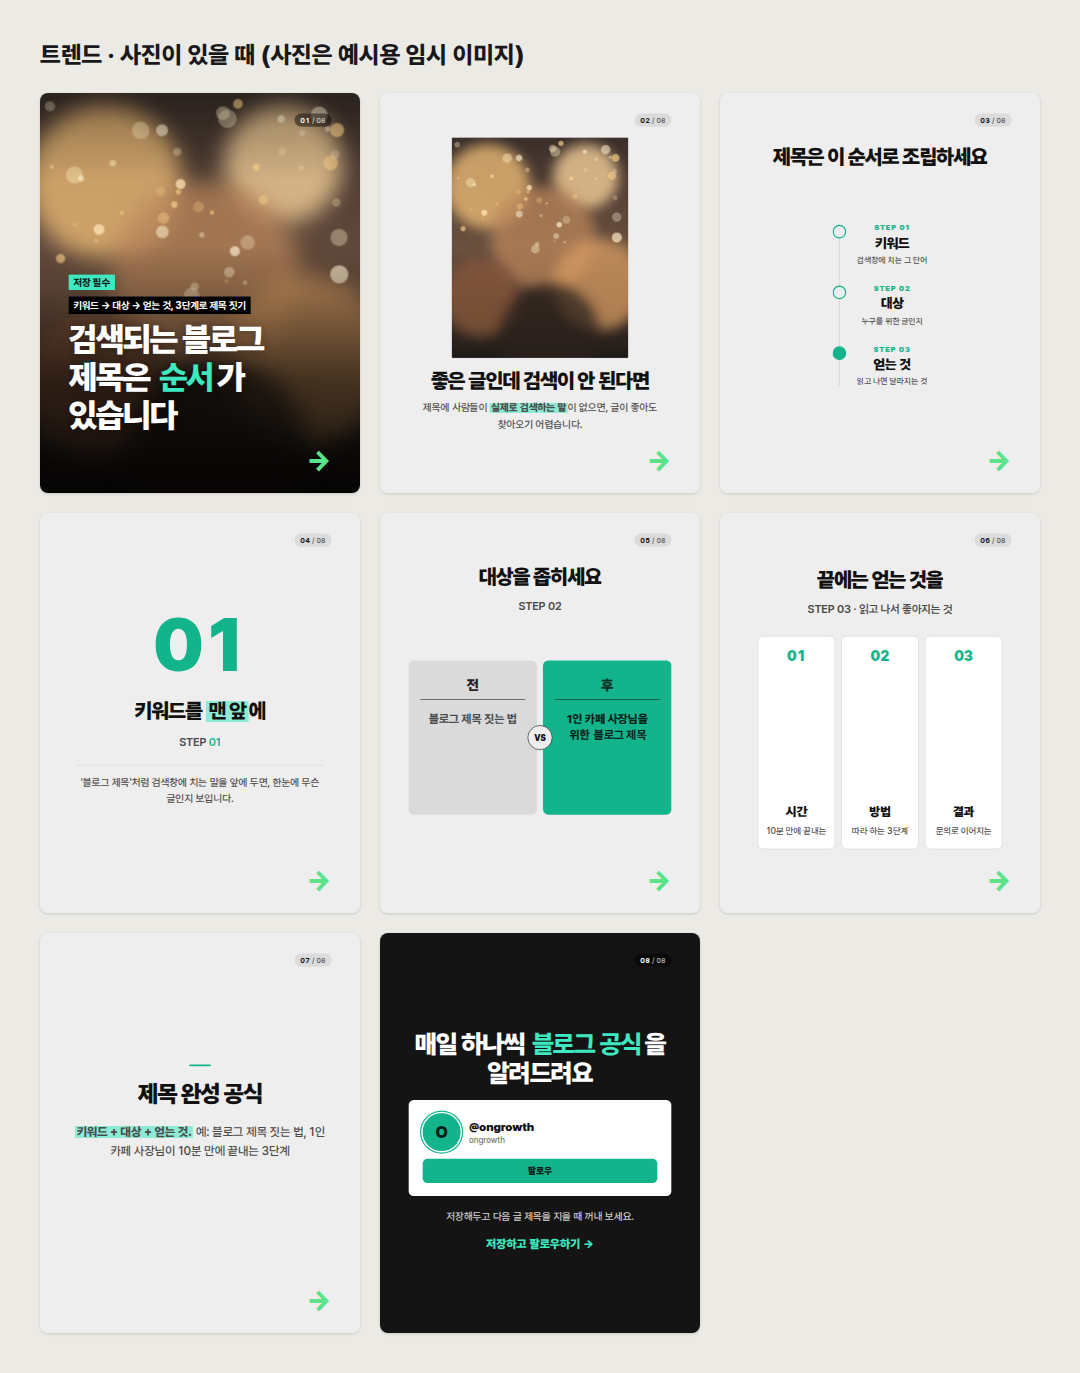
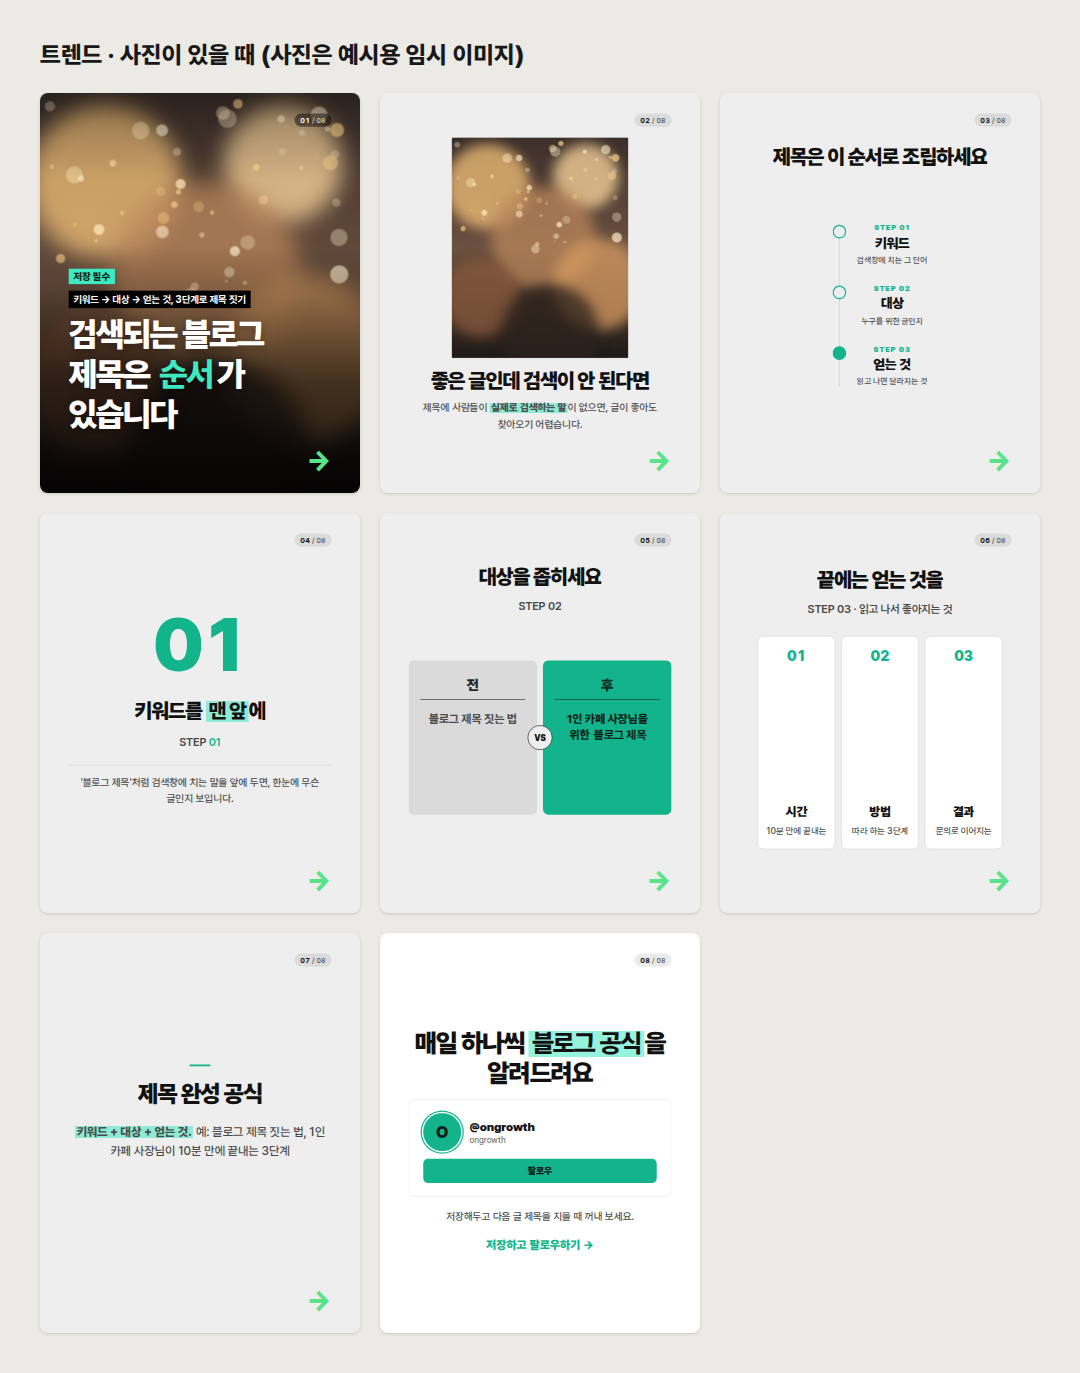
온그로스 디자인을 밝은 트렌드 테마로 변경 (표지·마무리도 흰 바탕)
Claude-Session: https://claude.ai/code/session_01AW918qkMwuH1UBhyEYAxys

Changed region(s): [[0.3361, 0.673, 0.6722, 0.9789], [0.0611, 0.1835, 0.2444, 0.3059]]

diff --git a/src/design/themes/trend.ts b/src/design/themes/trend.ts
@@ -12,17 +12,17 @@ export const trendTheme: DesignTheme = extendTheme(defaultTheme, {
   color: {
     background: "#EEEEEE",
     surface: "#FFFFFF",
-    primary: "#141414",
+    primary: "#FFFFFF", // 표지·마무리 카드도 밝게 (레퍼런스처럼 어두운 면 없이)
     secondary: "#DADADA",
     text: "#111111",
-    textOnPrimary: "#FFFFFF",
+    textOnPrimary: "#111111",
     muted: "#4A4A4A",
-    mutedOnPrimary: "rgba(255,255,255,.82)",
+    mutedOnPrimary: "#4A4A4A",
     accent: "#13B48C",
     accentSoft: "rgba(62,232,192,.55)",
     line: "#D4D4D4",
     onAccent: "#0B1F19",
-    accentOnDark: MINT,
+    accentOnDark: "#13B48C",
     cardBg: "#FFFFFF",
     cardText: "#111111",
   },
@@ -34,7 +34,7 @@ export const trendTheme: DesignTheme = extendTheme(defaultTheme, {
 /* 상단 라벨·진행 막대는 숨기고 쪽수만 오른쪽 위 둥근 칩으로 (인스타 1/10 표시와 겹치지 않게 작게) */
 .cn-theme-trend .cn-brand { opacity: 0; }
 .cn-theme-trend .cn-pn { font-size: 24px; font-weight: 700; padding: 8px 20px; border-radius: 999px; background: rgba(0,0,0,.08); }
-.cn-theme-trend.cn-tone-photo .cn-pn, .cn-theme-trend.cn-tone-dark .cn-pn { background: rgba(0,0,0,.45); color: #fff; }
+.cn-theme-trend.cn-tone-photo .cn-pn { background: rgba(0,0,0,.45); color: #fff; }
 .cn-theme-trend .cn-pn-total { color: inherit; opacity: .7; }
 .cn-theme-trend .cn-progress { visibility: hidden; }
 .cn-theme-trend .cn-swipe { font-size: 0; }
@@ -43,11 +43,17 @@ export const trendTheme: DesignTheme = extendTheme(defaultTheme, {
 
 /* 본문 카드: 가운데 정렬 */
 .cn-theme-trend.cn-tone-light .cn-main { text-align: center; align-items: center; }
-.cn-theme-trend.cn-tone-light .cn-main > * { margin-left: auto; margin-right: auto; }
+.cn-theme-trend.cn-tone-light .cn-main > * { margin-left: auto; margin-right: auto; max-width: 100%; }
+/* 큰 숫자는 폭을 꽉 채운 채 가운데로 (넘치면 검수기가 잡도록) */
+.cn-theme-trend .cn-focus { align-self: stretch; justify-content: center; }
 .cn-theme-trend .cn-headline { font-weight: 900; }
 .cn-theme-trend .cn-sub { color: var(--c-muted); font-weight: 600; }
 .cn-theme-trend .cn-em { padding: 0 .12em; }
-.cn-theme-trend.cn-tone-dark .cn-em, .cn-theme-trend.cn-tone-photo .cn-em { color: ${MINT}; }
+.cn-theme-trend.cn-tone-photo .cn-em { color: ${MINT}; }
+/* "어두운" 역할 카드(표지·마무리)도 이 테마에선 흰 바탕: 강조는 형광펜 그대로 */
+.cn-theme-trend.cn-tone-dark { --c-line: #DDDDDD; --c-surface: #F4F4F4; }
+.cn-theme-trend.cn-tone-dark .cn-em { background: var(--em-bg); color: inherit; }
+.cn-theme-trend.cn-tone-dark .cn-pn { background: rgba(0,0,0,.08); }
 .cn-theme-trend .cn-image { border-radius: 4px; box-shadow: 0 2px 0 rgba(0,0,0,.08); }
 
 /* 표지: 작은 문구는 박스 라벨로 제목 위에, 제목은 아주 굵게 */
@@ -60,7 +66,8 @@ export const trendTheme: DesignTheme = extendTheme(defaultTheme, {
 .cn-theme-trend.cn-l-PHOTO_COVER .cn-tag, .cn-theme-trend.cn-l-BIG_TITLE .cn-kicker {
   order: -2; align-self: flex-start; background: ${MINT}; color: #0B1F19; border-radius: 0; padding: 6px 16px; font-size: 34px; font-weight: 800; letter-spacing: 0; text-transform: none;
 }
-.cn-theme-trend.cn-l-PHOTO_COVER .cn-display, .cn-theme-trend.cn-l-BIG_TITLE .cn-display { font-size: 112px; line-height: 1.14; letter-spacing: -0.05em; text-shadow: 0 4px 28px rgba(0,0,0,.35); }
-.cn-theme-trend.cn-l-BIG_TITLE.cn-tone-dark { background: radial-gradient(120% 90% at 70% 15%, #3a3d42 0%, #1b1c1f 55%, #0d0d0e 100%); }
+.cn-theme-trend.cn-l-PHOTO_COVER .cn-display, .cn-theme-trend.cn-l-BIG_TITLE .cn-display { font-size: 112px; line-height: 1.2; letter-spacing: -0.05em; }
+.cn-theme-trend.cn-l-PHOTO_COVER .cn-display { text-shadow: 0 4px 28px rgba(0,0,0,.35); }
+.cn-theme-trend.cn-l-FOLLOW .cn-profile { border: 2px solid #E2E2E2; }
 `,
 });

diff --git a/src/design/design.test.ts b/src/design/design.test.ts
@@ -50,7 +50,7 @@ const tests: [string, () => void | Promise<void>][] = [
     assert.equal(resolveTheme("marketing").theme.name, "default");
     assert.equal(resolveTheme("stay").theme.name, "life");
     assert.equal(resolveTheme("beauty").fallback, true);
-    for (const t of ["insight", "life", "campaign"]) assert.equal(resolveTheme(t).theme.name, t);
+    for (const t of ["insight", "life", "campaign", "trend"]) assert.equal(resolveTheme(t).theme.name, t);
     const beauty = extendTheme(defaultTheme, { name: "beauty", color: { accent: "#C2185B" } });
     assert.equal(beauty.color.accent, "#C2185B");
     assert.equal(beauty.color.background, defaultTheme.color.background);
@@ -122,10 +122,10 @@ const tests: [string, () => void | Promise<void>][] = [
       }
     }
   }],
-  ["계정 설정: ongrowth는 전 페이지 insight, coverTheme가 있으면 첫/마지막 장만 다르게, --theme를 주면 한 가지로", () => {
+  ["계정 설정: ongrowth는 전 페이지 trend, coverTheme가 있으면 첫/마지막 장만 다르게, --theme를 주면 한 가지로", () => {
     const c = renderContent(master("CN-20261001-001"), store.pages);
-    assert.ok(c.cards.every((k) => k.theme.name === "insight"));
-    assert.equal(c.designLabel, "insight");
+    assert.ok(c.cards.every((k) => k.theme.name === "trend"));
+    assert.equal(c.designLabel, "trend");
     const tmp = fs.mkdtempSync(path.join(os.tmpdir(), "brand-"));
     const prev = process.cwd();
     fs.mkdirSync(path.join(tmp, "data/brands"), { recursive: true });

diff --git a/docs/daily-workflow.md b/docs/daily-workflow.md
@@ -6,7 +6,7 @@
 
 - **평일만** 운영: 월·화·목·금 블로그, 수요일은 인스타그램/스레드 격주 (`data/editorial/ongrowth.json`의 `weekly`)
 - 검토 요청: 평일 오전 (약 9시) · 발행: 승인된 날 18:30 (KST)
-- 디자인: 인사이트(검정 + 초록) — `data/brands/ongrowth.json`
+- 디자인: 트렌드(밝은 회색 + 민트 형광펜, 2026-10-01부터. 이전은 인사이트) — `data/brands/ongrowth.json`
 - 원고 작성은 이 세션의 Claude가 직접 한다 (API 키 불필요, `--response` 방식)
 
 ## 1. 준비
